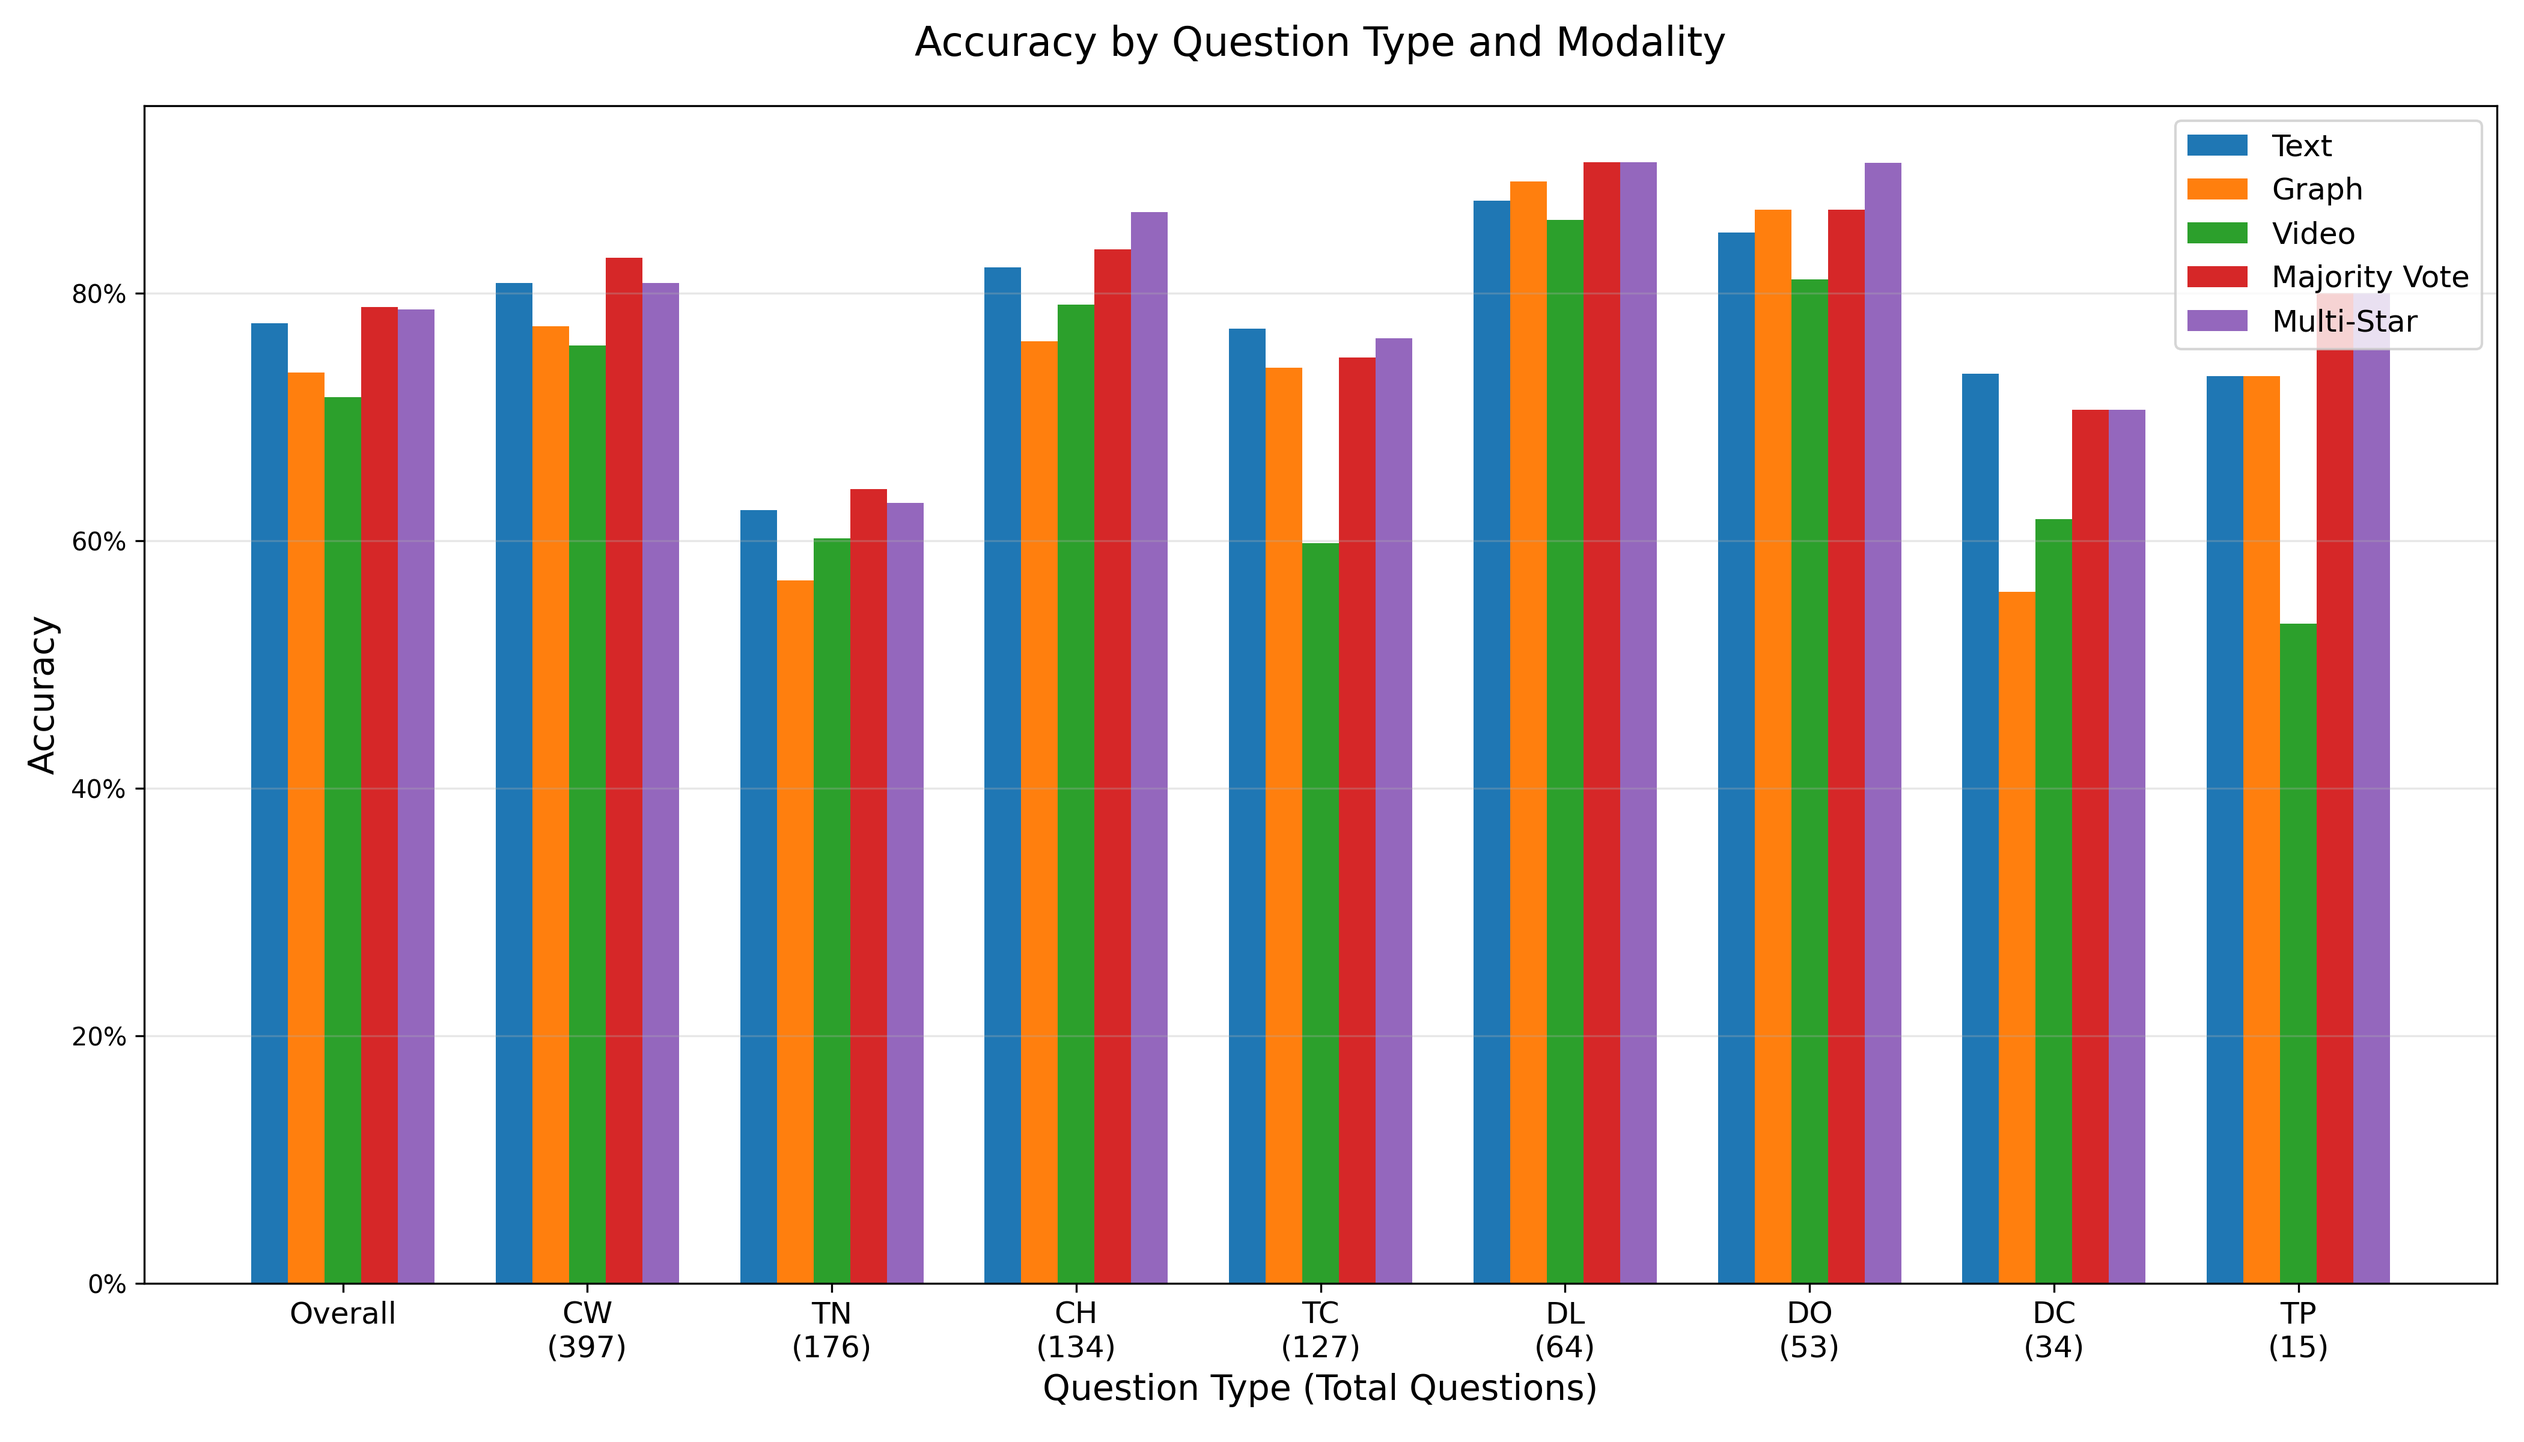
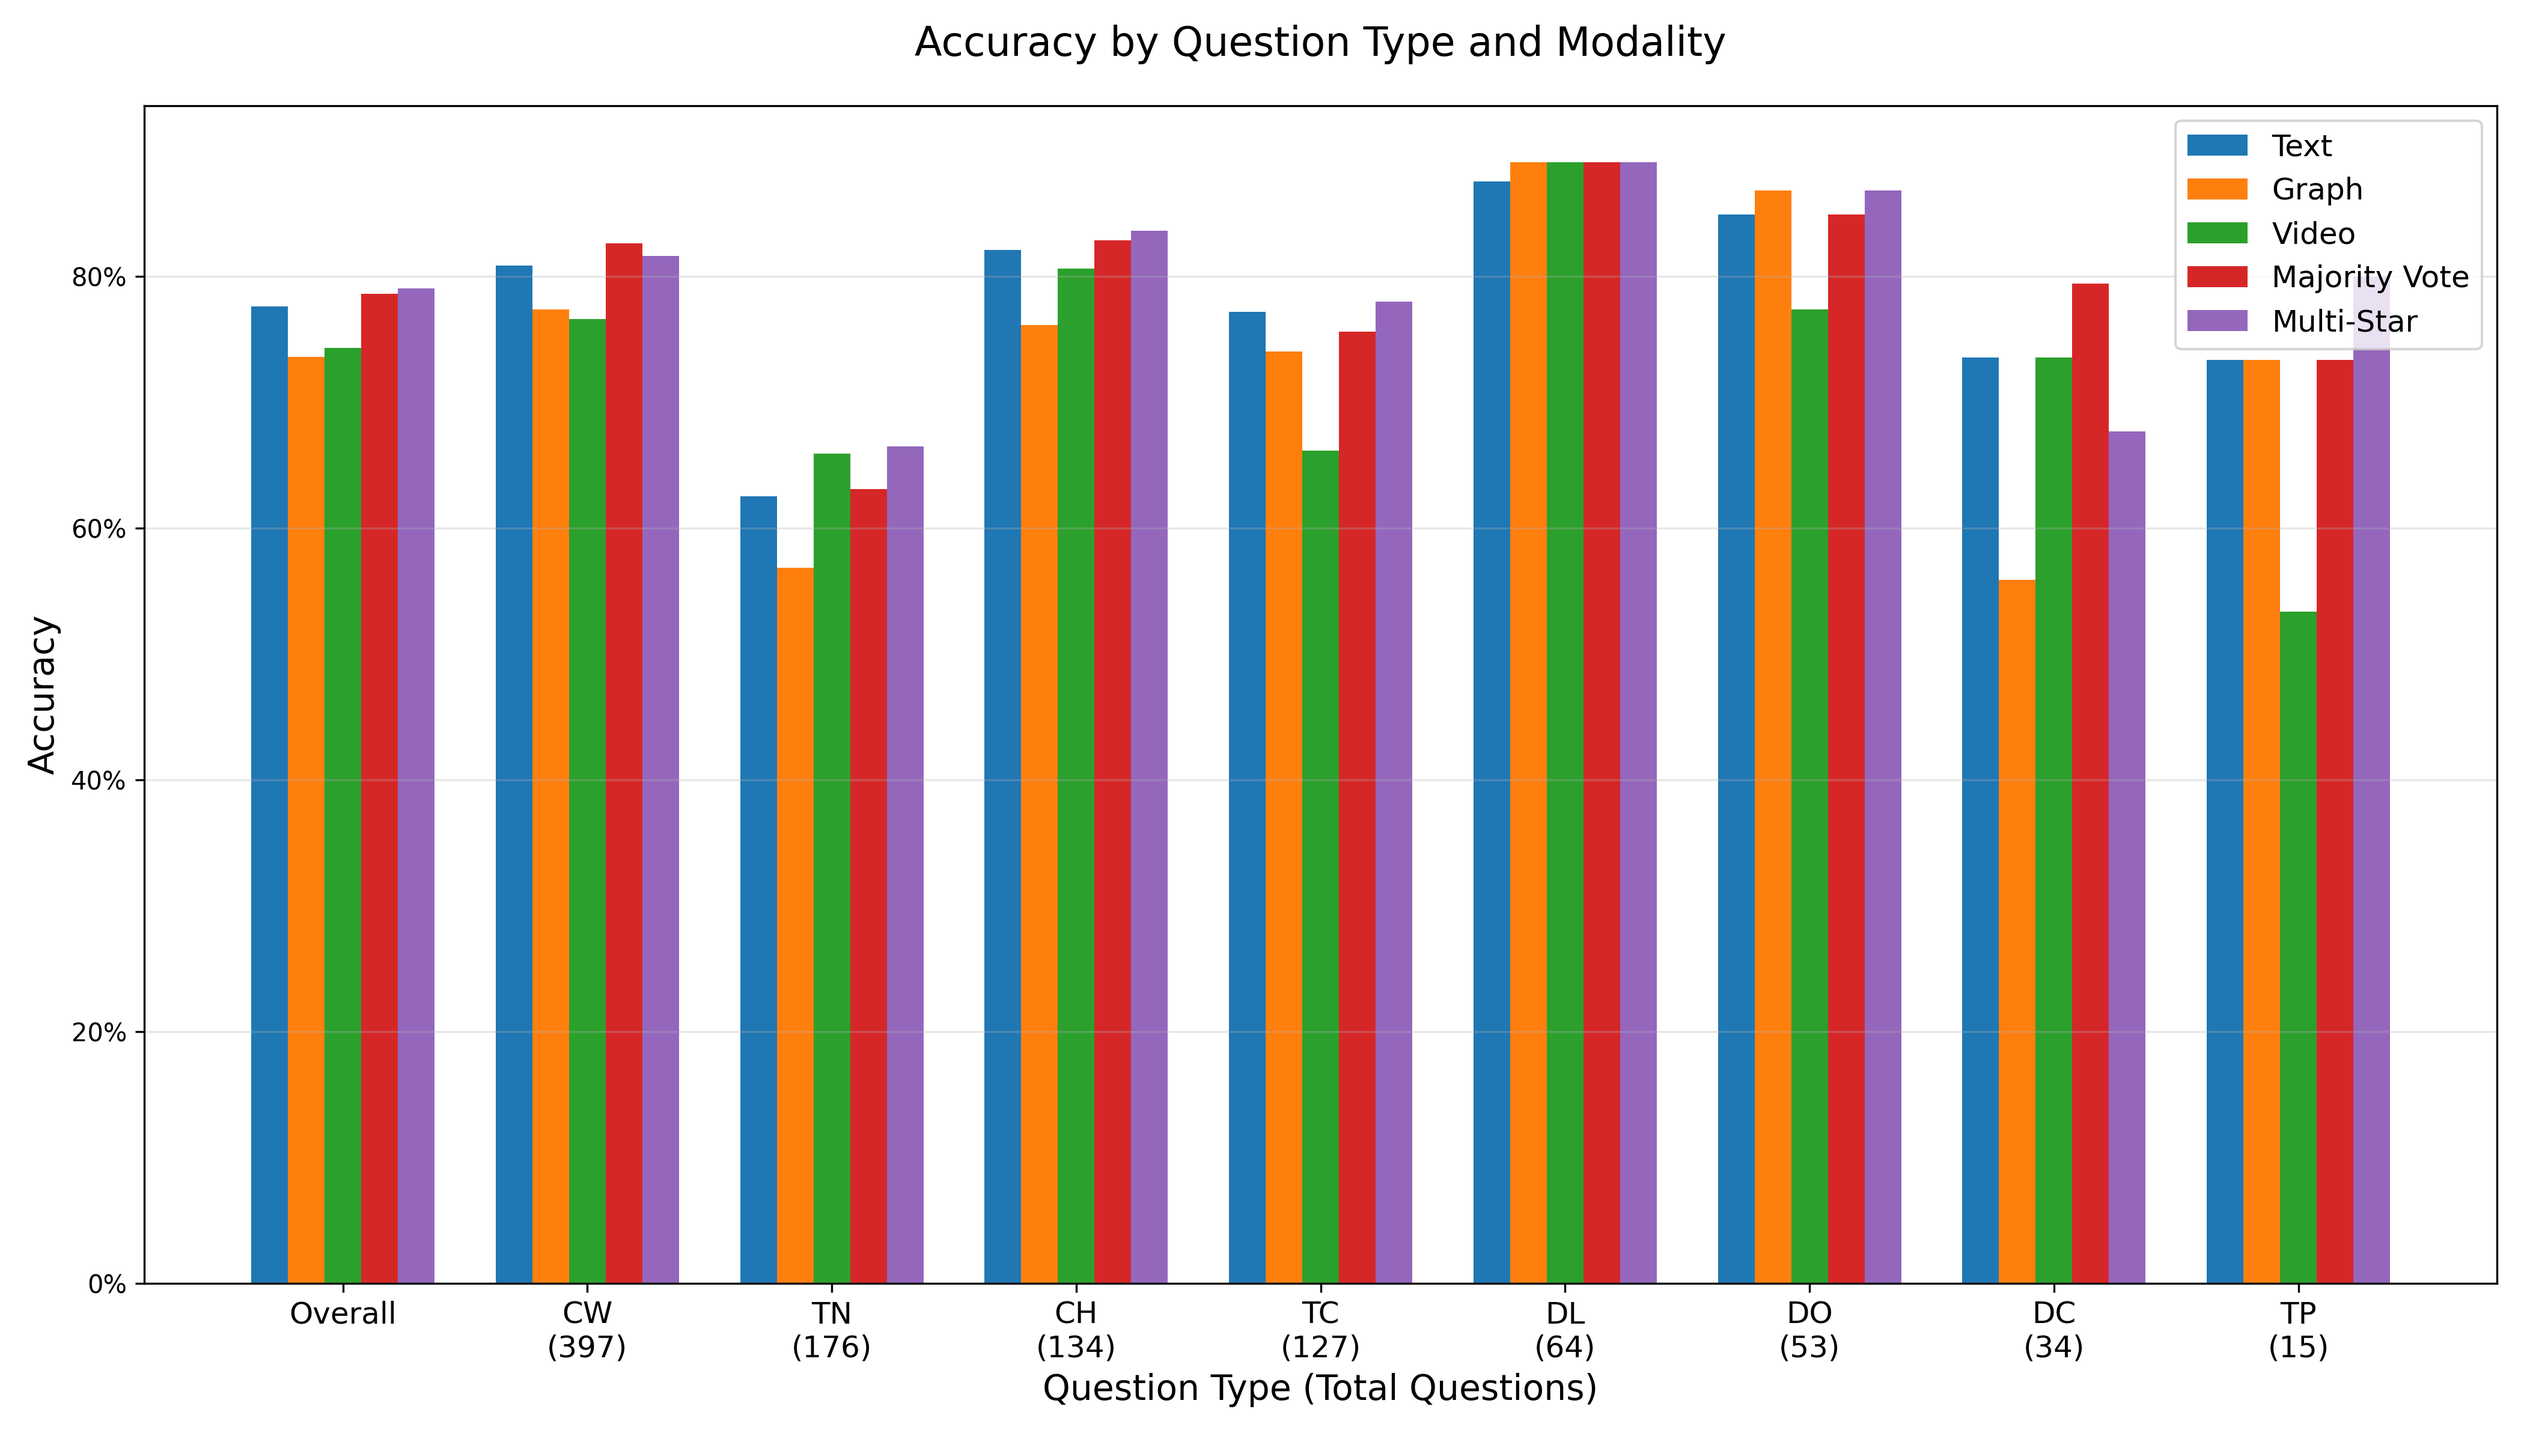
Replaced analyze_video_gpt4o with analyze_video_gemini.py; Requires a GOOGLE_API_KEY

diff --git a/util.py b/util.py
@@ -82,6 +82,88 @@ def ask_gpt4_omni(openai_api_key="", prompt_text="", temperature=0.0, image_dir=
     return response.choices[0].message.content
 
 
+# @retry(tries=3, delay=3)
+def ask_gemini(prompt_text: str, video_path: str = "", temperature=0.7) -> str:
+    """
+    Send a prompt to Gemini 2.0 for video analysis.
+
+    Args:
+        prompt_text (str): The prompt text to send to Gemini
+        video_path (str): Path to the video file to analyze
+
+    Returns:
+        str: Gemini's response text
+    """
+    # Initialize Gemini client
+    client = genai.Client(api_key=os.getenv("GOOGLE_API_KEY"))
+    
+    # Use Gemini 2.0 Flash model optimized for video
+    model_name = "gemini-2.0-flash"
+
+    generation_config = types.GenerateContentConfig(
+        max_output_tokens=3000,
+        temperature=temperature,
+        seed=42,
+        safety_settings= [
+          types.SafetySetting(
+              category='HARM_CATEGORY_HATE_SPEECH',
+              threshold='BLOCK_NONE'
+          ),
+          types.SafetySetting(
+              category='HARM_CATEGORY_HARASSMENT',
+              threshold='BLOCK_NONE'
+          ),
+          types.SafetySetting(
+              category='HARM_CATEGORY_SEXUALLY_EXPLICIT',
+              threshold='BLOCK_NONE'
+          ),
+          types.SafetySetting(
+              category='HARM_CATEGORY_DANGEROUS_CONTENT',
+              threshold='BLOCK_NONE'
+          ),
+          types.SafetySetting(
+              category='HARM_CATEGORY_CIVIC_INTEGRITY',
+              threshold='BLOCK_NONE'
+          ),
+      ]
+    )
+
+    if video_path:
+        # Upload video file to Gemini
+        video_file = client.files.upload(file=video_path)
+
+        # Wait for video processing to complete
+        while video_file.state == "PROCESSING":
+            print('Waiting for video to be processed.')
+            time.sleep(10)
+            video_file = client.files.get(name=video_file.name)
+
+        if video_file.state == "FAILED":
+            raise ValueError(video_file.state)
+        print(f'Video processing complete: {video_file.uri}')
+
+        # Generate response with video
+        response = client.models.generate_content(
+            model=model_name,
+            contents=[
+                video_file,
+                prompt_text,
+            ],
+            config=generation_config
+        )
+    else:
+        # Generate response without video
+        response = client.models.generate_content(
+            model=model_name,
+            contents=[prompt_text],
+            config=generation_config
+        )
+
+    print(f"ask_gemini: prompt_tokens={response.usage_metadata.prompt_token_count}, completion_tokens={response.usage_metadata.candidates_token_count}, total_tokens={response.usage_metadata.total_token_count}")
+
+    return response.text
+
+
 def create_mas_stage1_prompt(json_data):
     try:
         question = f"Question: {json_data['question']}"

diff --git a/main.py b/main.py
@@ -19,6 +19,7 @@ import traceback
 # Import required tools for video analysis
 from tools.retrieve_video_clip_captions import retrieve_video_clip_captions
 from tools.analyze_video_gpt4o import analyze_video_gpt4o
+from tools.analyze_video_gemini import analyze_video_gemini
 from tools.retrieve_video_scene_graph import retrieve_video_scene_graph
 from tools.analyze_all_gpt4o import analyze_all_gpt4o
 
@@ -33,7 +34,7 @@ def get_tools(modality):
         List of tool functions to use for processing
     """
     if modality == "video":
-        return [analyze_video_gpt4o]
+        return [analyze_video_gemini]
     elif modality == "text":
         return [retrieve_video_clip_captions]
     elif modality == "graph":
@@ -66,9 +67,9 @@ def process_single_video(modality, agents, dataset, use_summary_info, video_data
             tools = get_tools(modality)
             # Execute video analysis
             result, agent_response, agent_prompts = execute_single_agent(tools, use_summary_info)
-        elif agents.startswith("multi-report"):
+        elif agents.startswith("multi_report"):
             result, agent_response, agent_prompts = multi_agent_report.execute_multi_agent(use_summary_info)
-        elif agents.startswith("multi-star"):
+        elif agents.startswith("multi_star"):
             result, agent_response, agent_prompts = multi_agent_star.execute_multi_agent(use_summary_info)
         # elif agents.startswith("multi-debate"):
         #     result, agent_response, agent_prompts = multi_agent_debate.execute_multi_agent()
@@ -125,9 +126,10 @@ def main():
     elif args.dataset == "nextqa":
         os.environ["QUESTION_FILE_PATH"] = f"data/nextqa/val_{args.agents}_{args.modality}.json"
         os.environ["GRAPH_DATA_PATH"] = "data/nextqa/nextqa_graph_captions_gpt4o.json"
-        os.environ["CAPTIONS_FILE"] = "data/nextqa/nextqa_llava1.5_captions.json"
+        os.environ["CAPTIONS_FILE"] = "data/nextqa/captions_gpt4o_question_guided.json"
         os.environ["SUMMARY_CACHE_JSON_PATH"] = "data/nextqa/nextqa_summary_cache_val.json"
         os.environ["IMAGES_DIR_PATH"] = "data/nextqa/frames_aligned/"
+        os.environ["VIDEO_DIR_PATH"] = "/simurgh/u/akhatua/VideoMultiAgents/data/nextqa/NExTVideo"
         os.environ["FRAME_NUM"] = "180"
     elif args.dataset == "momaqa":
         os.environ["QUESTION_FILE_PATH"] = "/root/VideoMultiAgents/momaqa_test_anno.json"

diff --git a/modality_advantages.py b/modality_advantages.py
@@ -52,7 +52,19 @@ multi_star_counts = defaultdict(lambda: {'correct': 0, 'total': 0})
 modality_data = {}
 all_questions = set()
 for modality in ['text', 'graph', 'video']:
-    filename = f'data/nextqa/val_single_{modality}.json'
+    if modality == 'text':
+        # m = 'text_llava1.5_no_summaries'
+        # m = 'text_no_summaries'
+        m = 'text_with_summaries'
+    elif modality == 'graph':
+        # m = 'graph_no_summaries'
+        m = 'graph_gpt4o_with_summaries'
+    elif modality == 'video':
+        m = 'video_gemini_with_summaries'
+
+    # m = modality
+
+    filename = f'data/nextqa/val_single_{m}.json'
     with open(filename, 'r') as f:
         data = json.load(f)
     # Get only questions with predictions
@@ -64,10 +76,10 @@ for modality in ['text', 'graph', 'video']:
         all_questions.intersection_update(answered_questions.keys())
 
 # Verify we have exactly 1000 common questions
-assert len(all_questions) == 1000, f"Expected 1000 common questions, got {len(all_questions)}"
+# assert len(all_questions) == 1000, f"Expected 1000 common questions, got {len(all_questions)}"
 
 # Load multi-star data
-with open('data/nextqa/val_multi_star_all_intermediate.json', 'r') as f:
+with open('data/nextqa/val_multi_star_all_gemini_with_summaries.json', 'r') as f:
     multi_star_data = json.load(f)
 
 # Process only the common questions
@@ -76,7 +88,7 @@ for qid in all_questions:
     truth = modality_data['text'][qid]['truth']  # Truth is same across modalities
     
     # Get all predictions for majority vote
-    predictions = [modality_data[modality][qid]['pred'] for modality in ['text', 'graph', 'video']]
+    predictions = [modality_data[modality][qid]['pred'] for modality in ['text', 'video', 'graph']]
     majority_pred = Counter(predictions).most_common(1)[0][0]
     
     # Update majority counts

diff --git a/tools/analyze_video_gemini.py b/tools/analyze_video_gemini.py
@@ -1,0 +1,40 @@
+import os
+import json
+import sys
+from datetime import timedelta
+from langchain.agents import tool
+
+sys.path.append(os.path.dirname(os.path.dirname(os.path.abspath(__file__))))
+from util import ask_gemini
+
+
+@tool
+def analyze_video_gemini(gpt_prompt:str) -> str:
+    """
+    Analyze video tool.
+
+    Parameters:
+    gpt_prompt (str): In the GPT prompt, You must include 5 questions based on original questions and options.
+    For example, if the question asks about the purpose of the video and OptionA is “C is looking for a T-shirt” and OptionB is “C is cleaning up the room,
+    OptionA is “C is looking for a T-shirt?” and OptionB is “C is tidying the room?” and so on. 
+    The questions should be Yes/No questions whenever possible.
+    Also, please indicate what role you would like the respondent to play in answering the questions.
+
+    Returns:
+    str: The analysis result.
+    """
+
+    print ("gpt_prompt: ", gpt_prompt)
+
+    video_file_name = os.getenv("VIDEO_FILE_NAME")
+    video_dir       = os.getenv("VIDEO_DIR_PATH")
+
+    print ("Called the tool of analyze_video_gemini.")
+
+    result = ask_gemini(
+                prompt_text    = gpt_prompt,
+                video_path      = f'{video_dir}/{video_file_name.replace("-", "/")}.mp4',
+                temperature    = 0.7,
+            )
+    print ("result: ", result)
+    return result

diff --git a/multi_agent_star.py b/multi_agent_star.py
@@ -14,6 +14,7 @@ from langchain_openai import ChatOpenAI
 
 from tools.retrieve_video_clip_captions import retrieve_video_clip_captions
 from tools.analyze_video_gpt4o import analyze_video_gpt4o
+from tools.analyze_video_gemini import analyze_video_gemini
 from tools.retrieve_video_scene_graph import retrieve_video_scene_graph
 from tools.dummy_tool import dummy_tool
 from util import post_process, create_stage2_agent_prompt, create_stage2_organizer_prompt, create_question_sentence, prepare_intermediate_steps
@@ -122,7 +123,7 @@ def execute_multi_agent(use_summary_info):
     # print (create_question_sentence(target_question_data))
 
     agent1_prompt = create_stage2_agent_prompt(target_question_data, "You are an expert video analyzer.", shuffle_questions=False, use_summary_info=use_summary_info)
-    agent1 = create_agent(llm_openai, [analyze_video_gpt4o], system_prompt=agent1_prompt)
+    agent1 = create_agent(llm_openai, [analyze_video_gemini], system_prompt=agent1_prompt)
     agent1_node = functools.partial(agent_node, agent=agent1, name="agent1")
 
     agent2_prompt = create_stage2_agent_prompt(target_question_data, "You are an expert video analyzer.", shuffle_questions=False, use_summary_info=use_summary_info)
